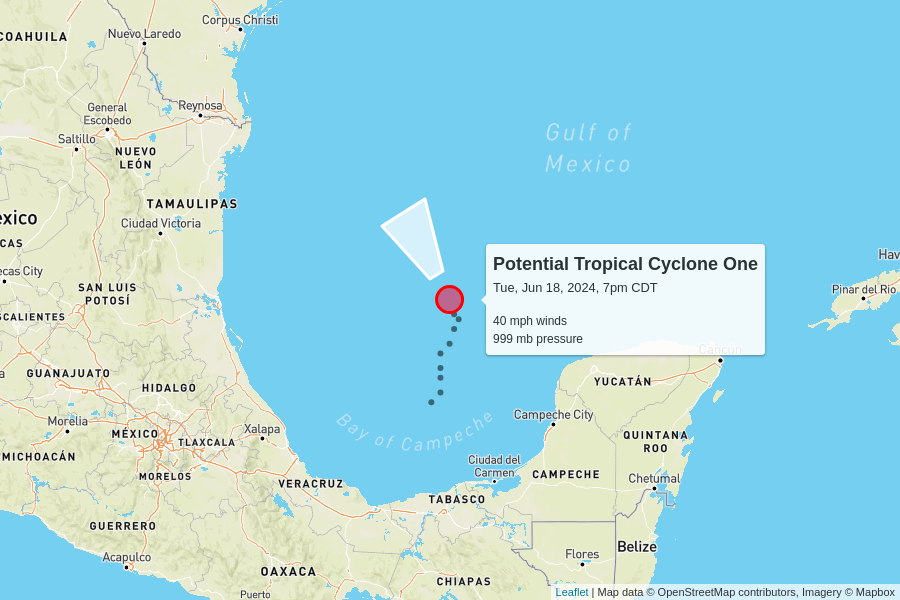
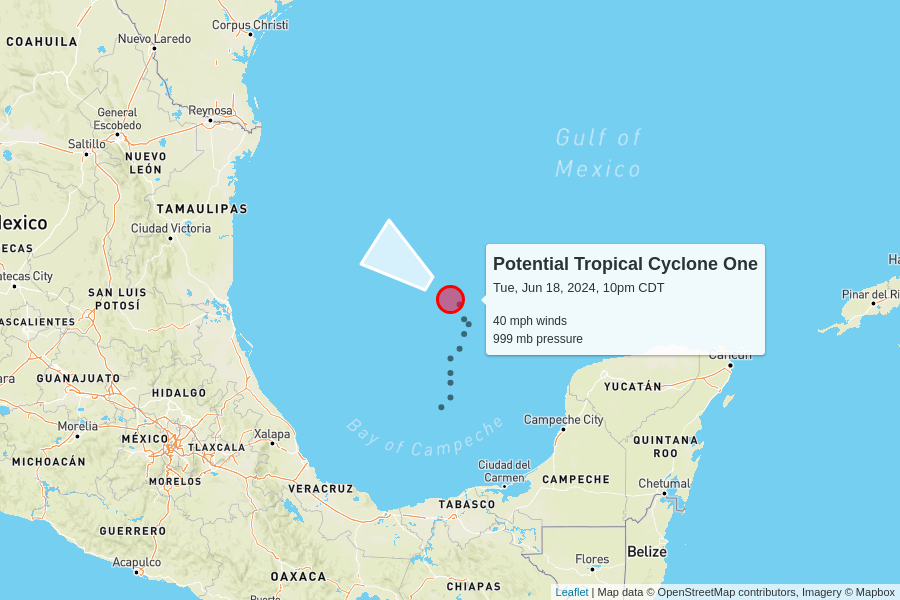
automatic update

diff --git a/docs/index.html b/docs/index.html
@@ -102,7 +102,7 @@
         <td colspan="6" class="storm category-0" >
           <h2>
             Potential Tropical Cyclone One
-            <p class="updated">last updated <span data-time>2024-06-19T00:00:00.000Z</span></p>
+            <p class="updated">last updated <span data-time>2024-06-19T03:00:00.000Z</span></p>
           </h2>
         </td>
       </tr>
@@ -120,9 +120,9 @@
         <td>40 mph<br>0 mph since last update</td>
         <td>999 mb<br>0 mb since last update</td>
         <td>
-          6 mph to the north-northwest
+          7 mph to the northwest
           <br/>
-          <span style="display: inline-block; font-size: 1.5em; transform: rotate(330deg);">↑</span>
+          <span style="display: inline-block; font-size: 1.5em; transform: rotate(305deg);">↑</span>
         </td>
         <td><a href="https://raw.githubusercontent.com/mgwalker/atlantic-hurricanes/main/data/csv/AL012024.csv">AL012024.csv</a></td>
         <td><a href="https://www.nhc.noaa.gov/archive/2024/ONE.shtml?">NHC advisories</a></td>
